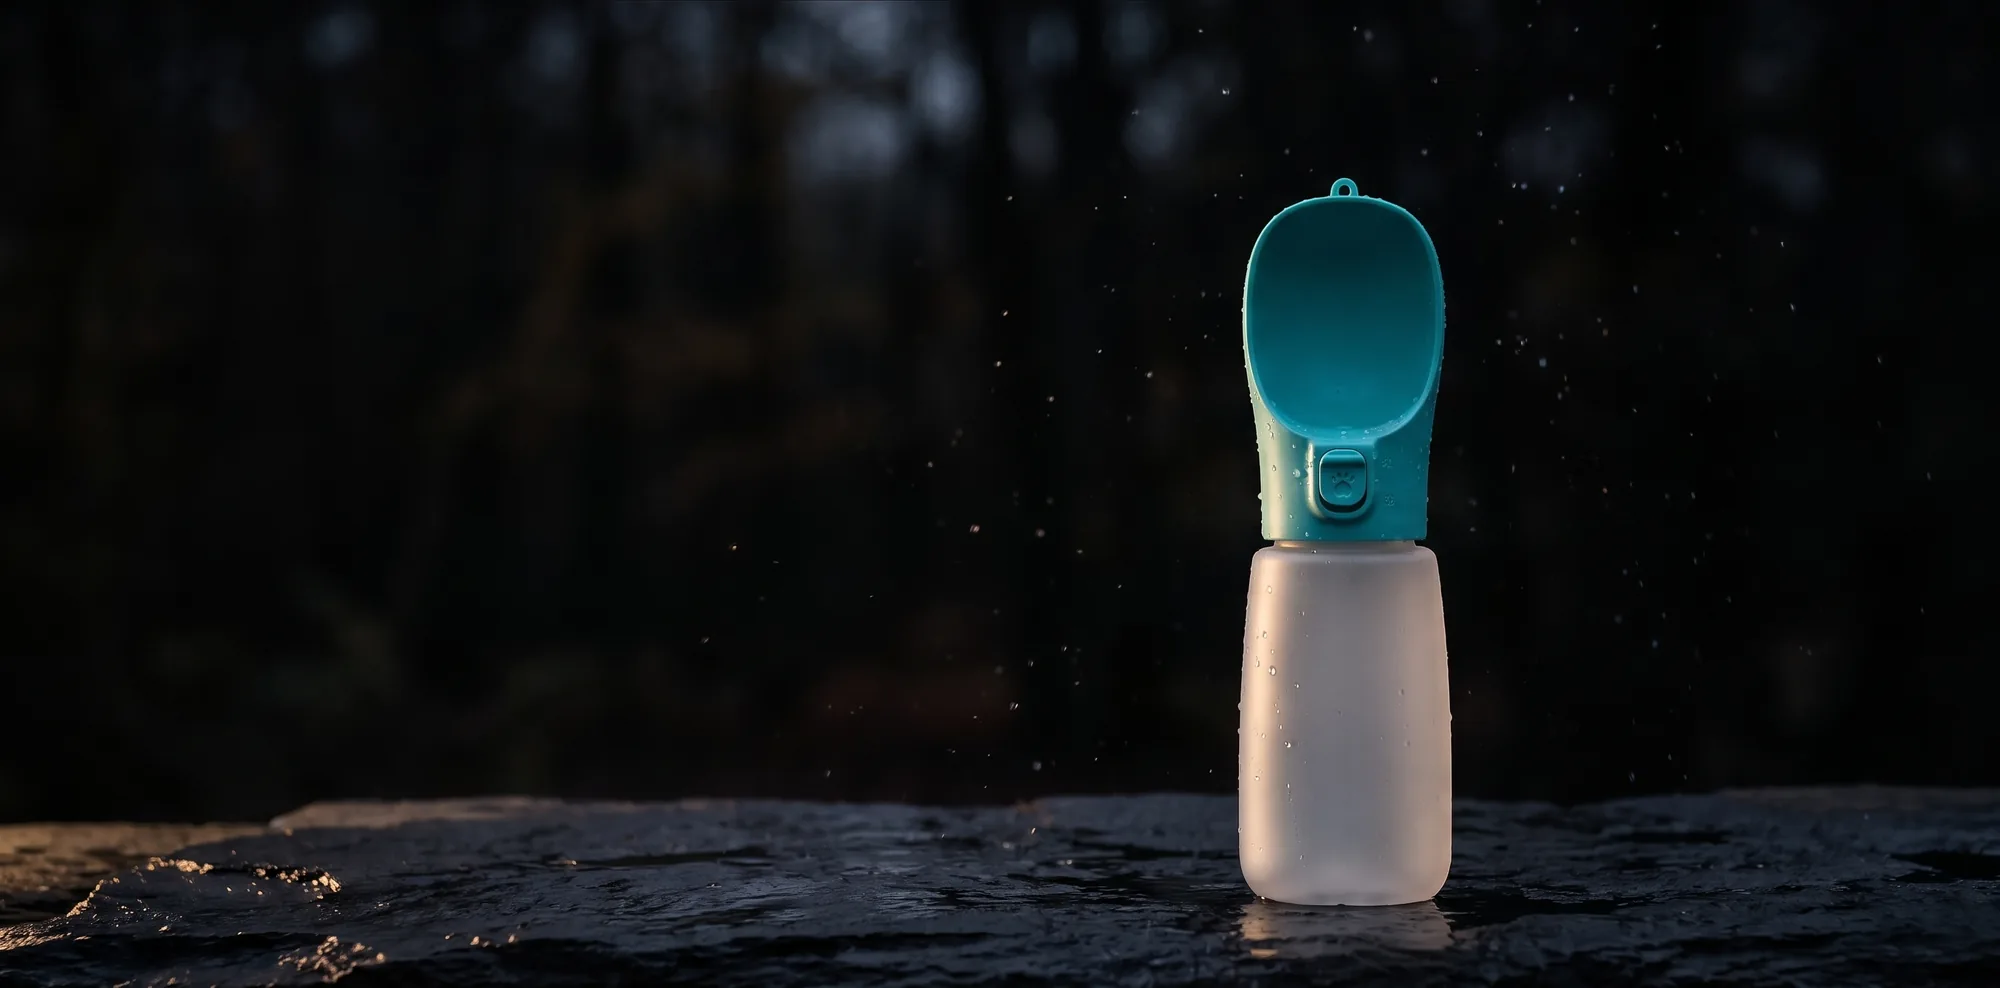
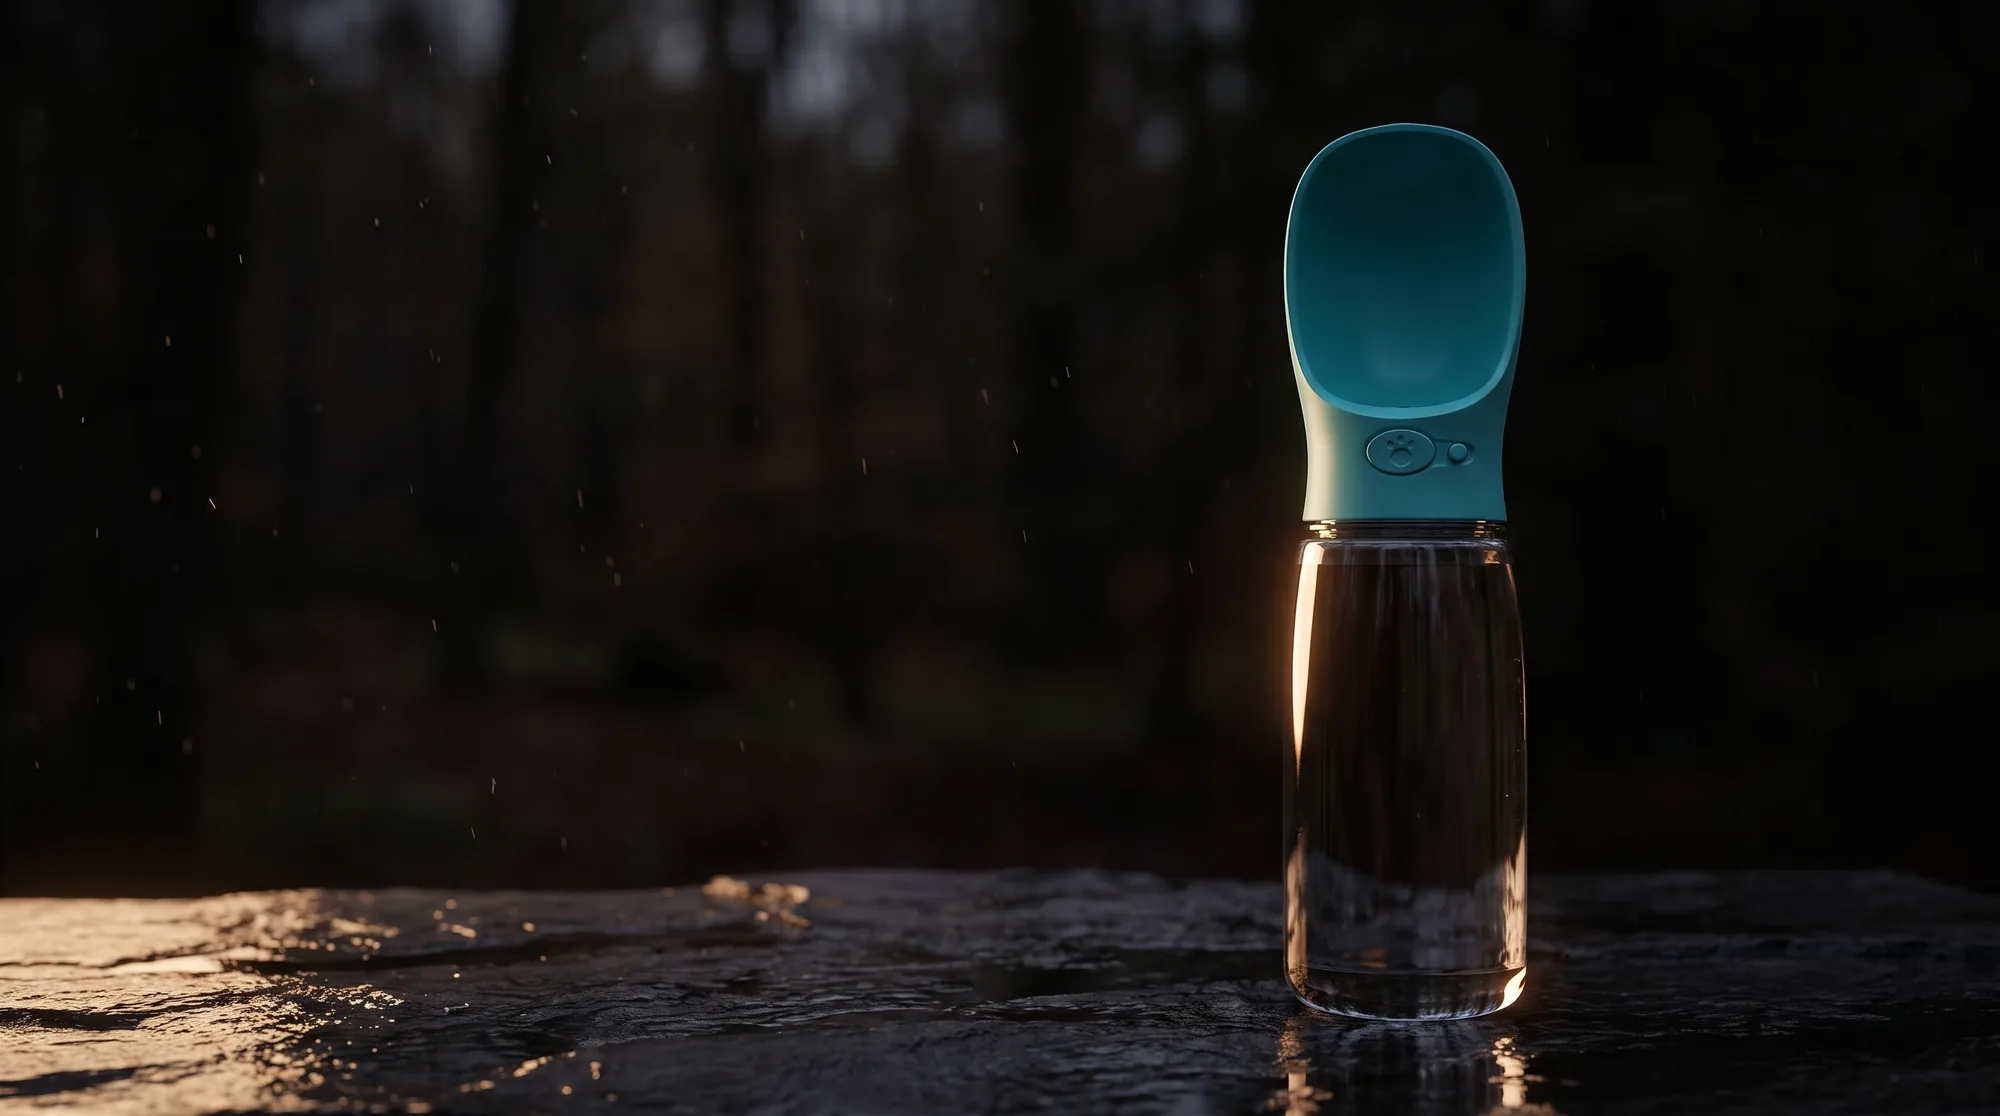
Schlussbild berichtigt: der Flaschenkoerper ist klar, nicht milchig
Nate hat ein Video vom echten Produkt im Einsatz geschickt. Daraus
gehen drei Dinge hervor, die aus der Lieferantenaufnahme allein nicht
zu erkennen waren:

1. Der Flaschenkoerper ist KLAR DURCHSICHTIG. Auf der weissen
   Lieferantenaufnahme sieht durchsichtiges Plastik vor weissem Grund
   weiss aus - deshalb war er auf allen erzeugten Bildern milchig.
   Vor dunklem Hintergrund faellt das sofort auf: das alte Schlussbild
   zeigte eine hell leuchtende Flasche, wo eine glasklare stehen muss.
2. Die Rueckseite des Napfes ist eine geschlossene runde Haube, kein
   Kegel und keine Klammern.
3. Neben dem Pfotenknopf sitzt eine kleine runde Markierung.

Zwei Standbilder aus dem Video dienten als zusaetzliche Referenz.
Sie bleiben aussen vor: das Video ist die Werbung eines fremden
Anbieters, samt dessen Preisschild.

Der Text sitzt auf dem Desktop wieder links, weil die Flasche im
neuen Bild rechts steht. Ein Zwischenstand hatte den Text nach rechts
geschoben - da lief die Ueberschrift mitten durch das Produkt.
Beide Breiten erneut gerendert und nachgesehen.

NOCH NICHT BERICHTIGT, gleicher Fehler: a-napf-nah, a-schritt-1 bis 4,
die vier Werbespots und der 30-Sekunden-Film. Dort ist der Koerper
ebenfalls milchig statt klar. Vor hellem Grund faellt es kaum auf,
vor dunklem schon.

diff --git a/shop/theme-nova/assets/n-nova.css b/shop/theme-nova/assets/n-nova.css
@@ -714,15 +714,17 @@ html:not(.n-js) [data-auf] { opacity: 1; transform: none; }
 .n-schluss--bild .n-textlink:hover { color: #FFFFFF; }
 
 @media (min-width: 760px) {
-  /* Jetzt steht die Flasche rechts im Bild, der Text bekommt die linke
-     Haelfte. Die Mindesthoehe ist noetig, weil der Block sonst flacher
-     waere als die Flasche hoch ist und sie oben und unten abschneiden
-     wuerde. */
+  /* Die Flasche steht im Bild rechts, also bekommt der Text die linke
+     Haelfte. Andersherum laeuft die Ueberschrift mitten durch das
+     Produkt - beides einmal gerendert und nachgesehen.
+
+     Die Mindesthoehe ist noetig, weil der Block sonst flacher waere als
+     die Flasche hoch ist und sie oben und unten abschneiden wuerde. */
   .n-schluss--bild { padding: clamp(4rem, 7vw, 6rem) clamp(2rem, 5vw, 4rem);
                      min-height: 34rem; display: flex; align-items: center; text-align: left; }
-  .n-schluss__bild img { object-position: 76% 52%; }
+  .n-schluss__bild img { object-position: 50% 52%; }
   .n-schluss__schleier {
-    background: linear-gradient(100deg, rgb(6 6 7 / .90) 0%, rgb(6 6 7 / .78) 42%, rgb(6 6 7 / .22) 70%, rgb(6 6 7 / 0) 100%); }
+    background: linear-gradient(100deg, rgb(6 6 7 / .90) 0%, rgb(6 6 7 / .78) 40%, rgb(6 6 7 / .20) 68%, rgb(6 6 7 / 0) 100%); }
   .n-schluss__text { max-width: 30ch; margin-inline: 0; }
   .n-schluss--bild .n-unter { margin-inline: 0; }
   .n-schluss--bild .n-cta { justify-content: flex-start; }
